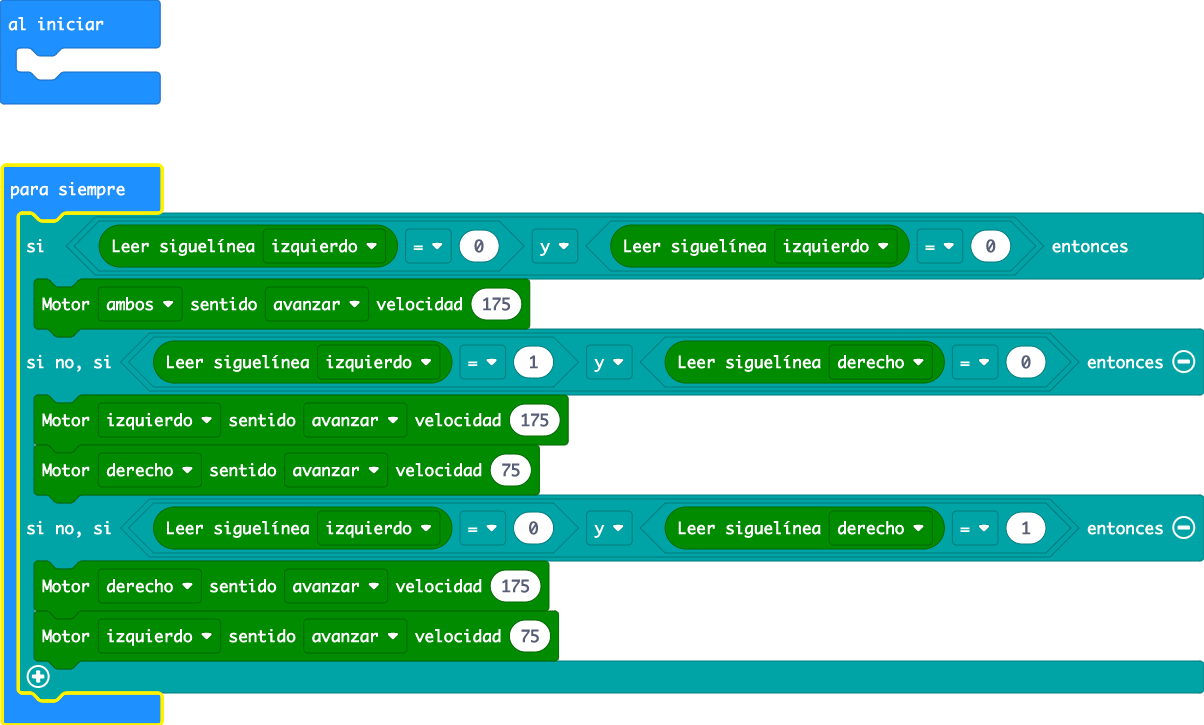
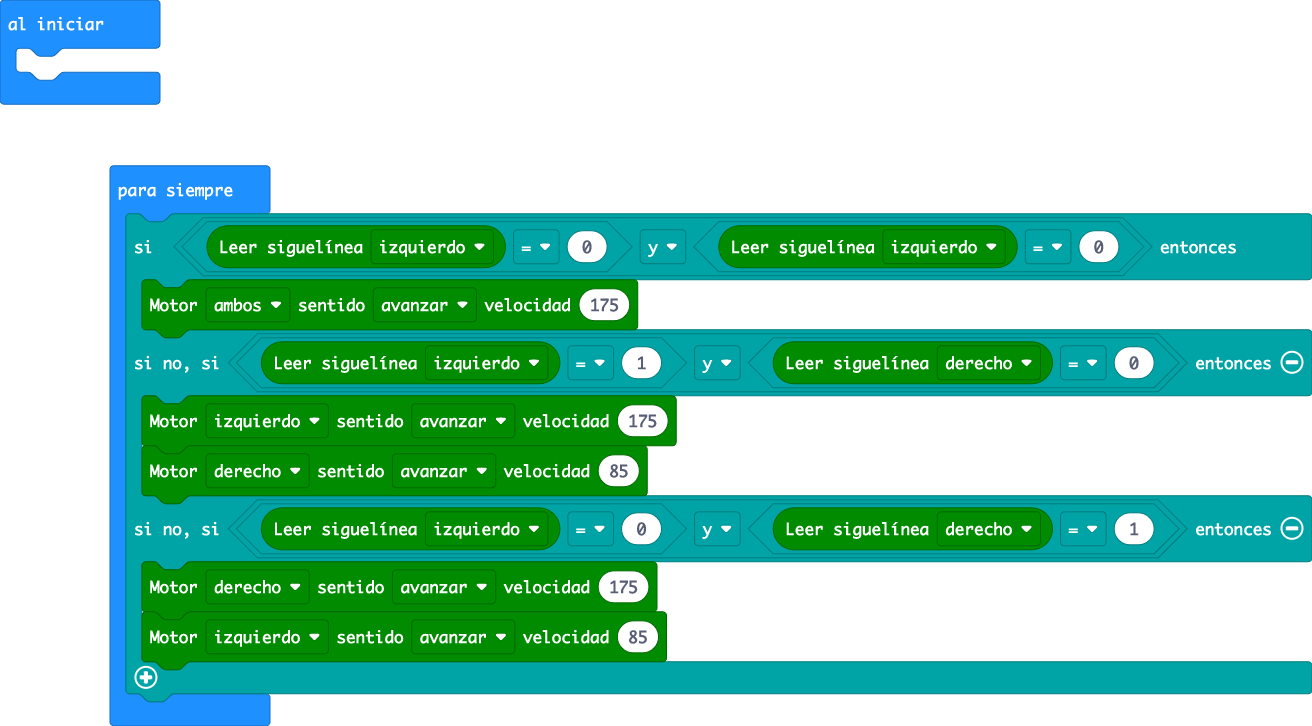
Actualizar main.blocks, main.ts

diff --git a/main.ts b/main.ts
@@ -3,9 +3,9 @@ basic.forever(function () {
         maqueen.motorRun(maqueen.Motors.All, maqueen.Dir.CW, 175)
     } else if (maqueen.readPatrol(maqueen.Patrol.PatrolLeft) == 1 && maqueen.readPatrol(maqueen.Patrol.PatrolRight) == 0) {
         maqueen.motorRun(maqueen.Motors.M1, maqueen.Dir.CW, 175)
-        maqueen.motorRun(maqueen.Motors.M2, maqueen.Dir.CW, 75)
+        maqueen.motorRun(maqueen.Motors.M2, maqueen.Dir.CW, 85)
     } else if (maqueen.readPatrol(maqueen.Patrol.PatrolLeft) == 0 && maqueen.readPatrol(maqueen.Patrol.PatrolRight) == 1) {
         maqueen.motorRun(maqueen.Motors.M2, maqueen.Dir.CW, 175)
-        maqueen.motorRun(maqueen.Motors.M1, maqueen.Dir.CW, 75)
+        maqueen.motorRun(maqueen.Motors.M1, maqueen.Dir.CW, 85)
     }
 })
